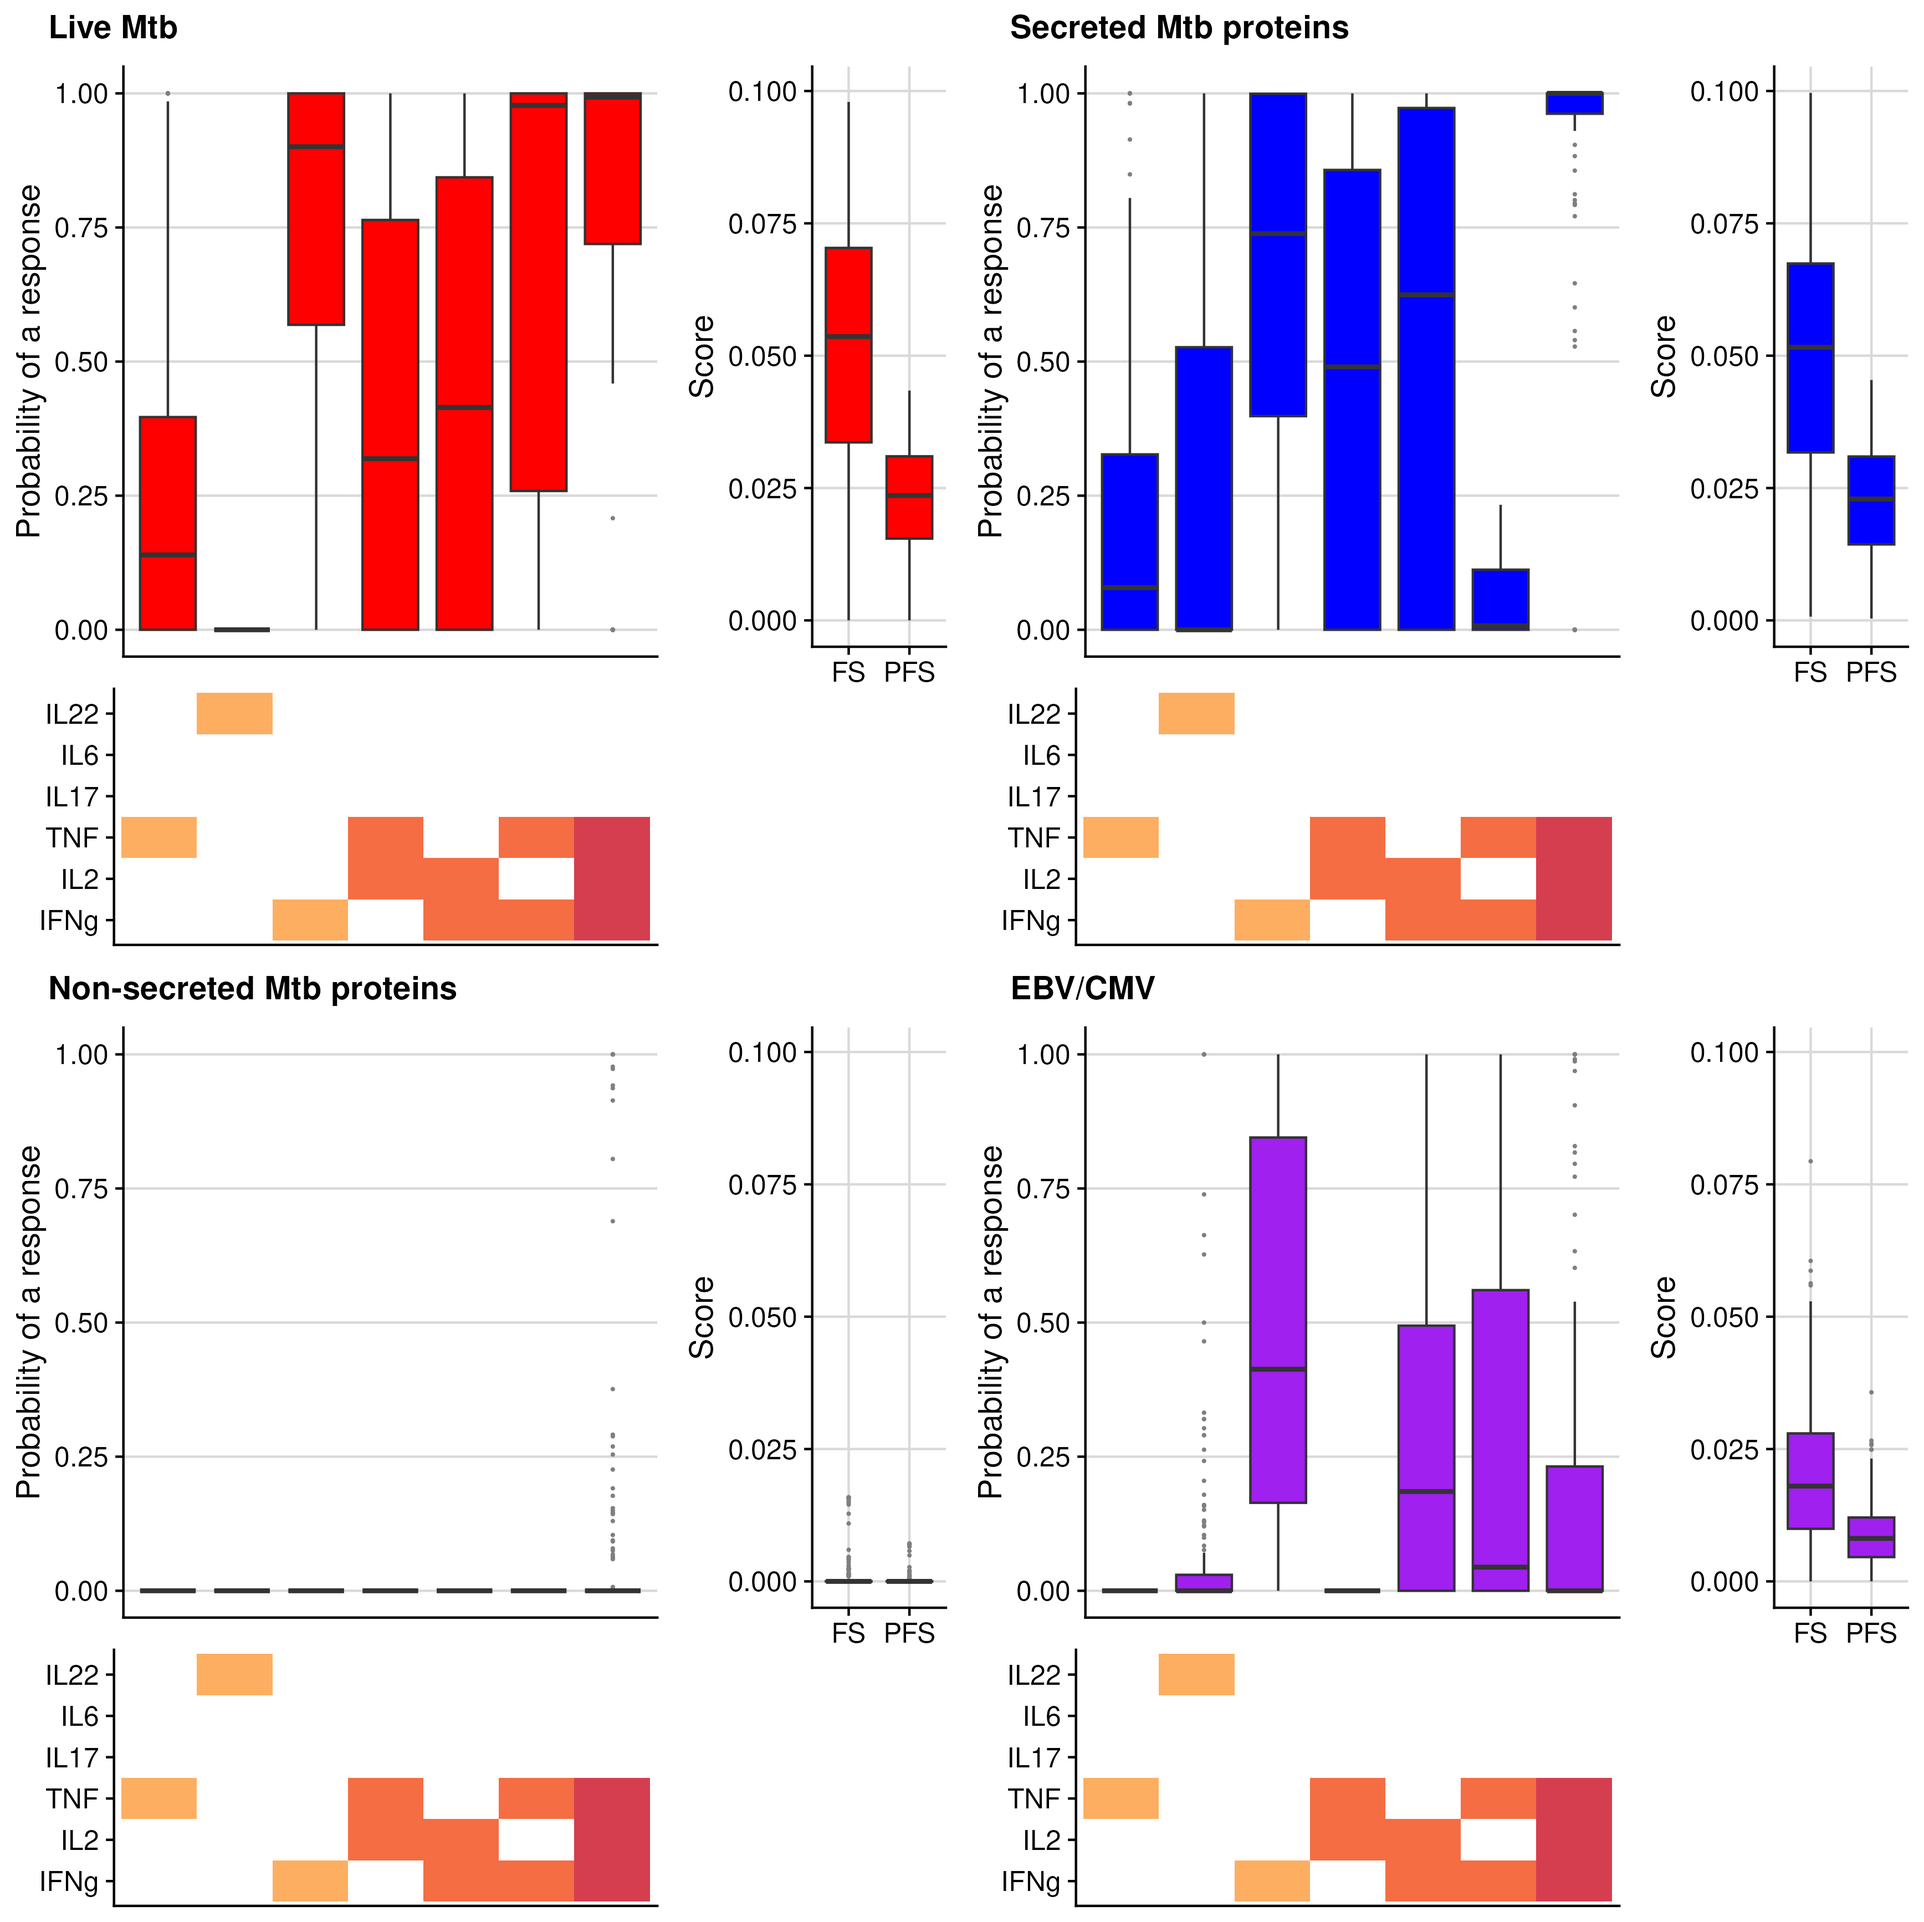
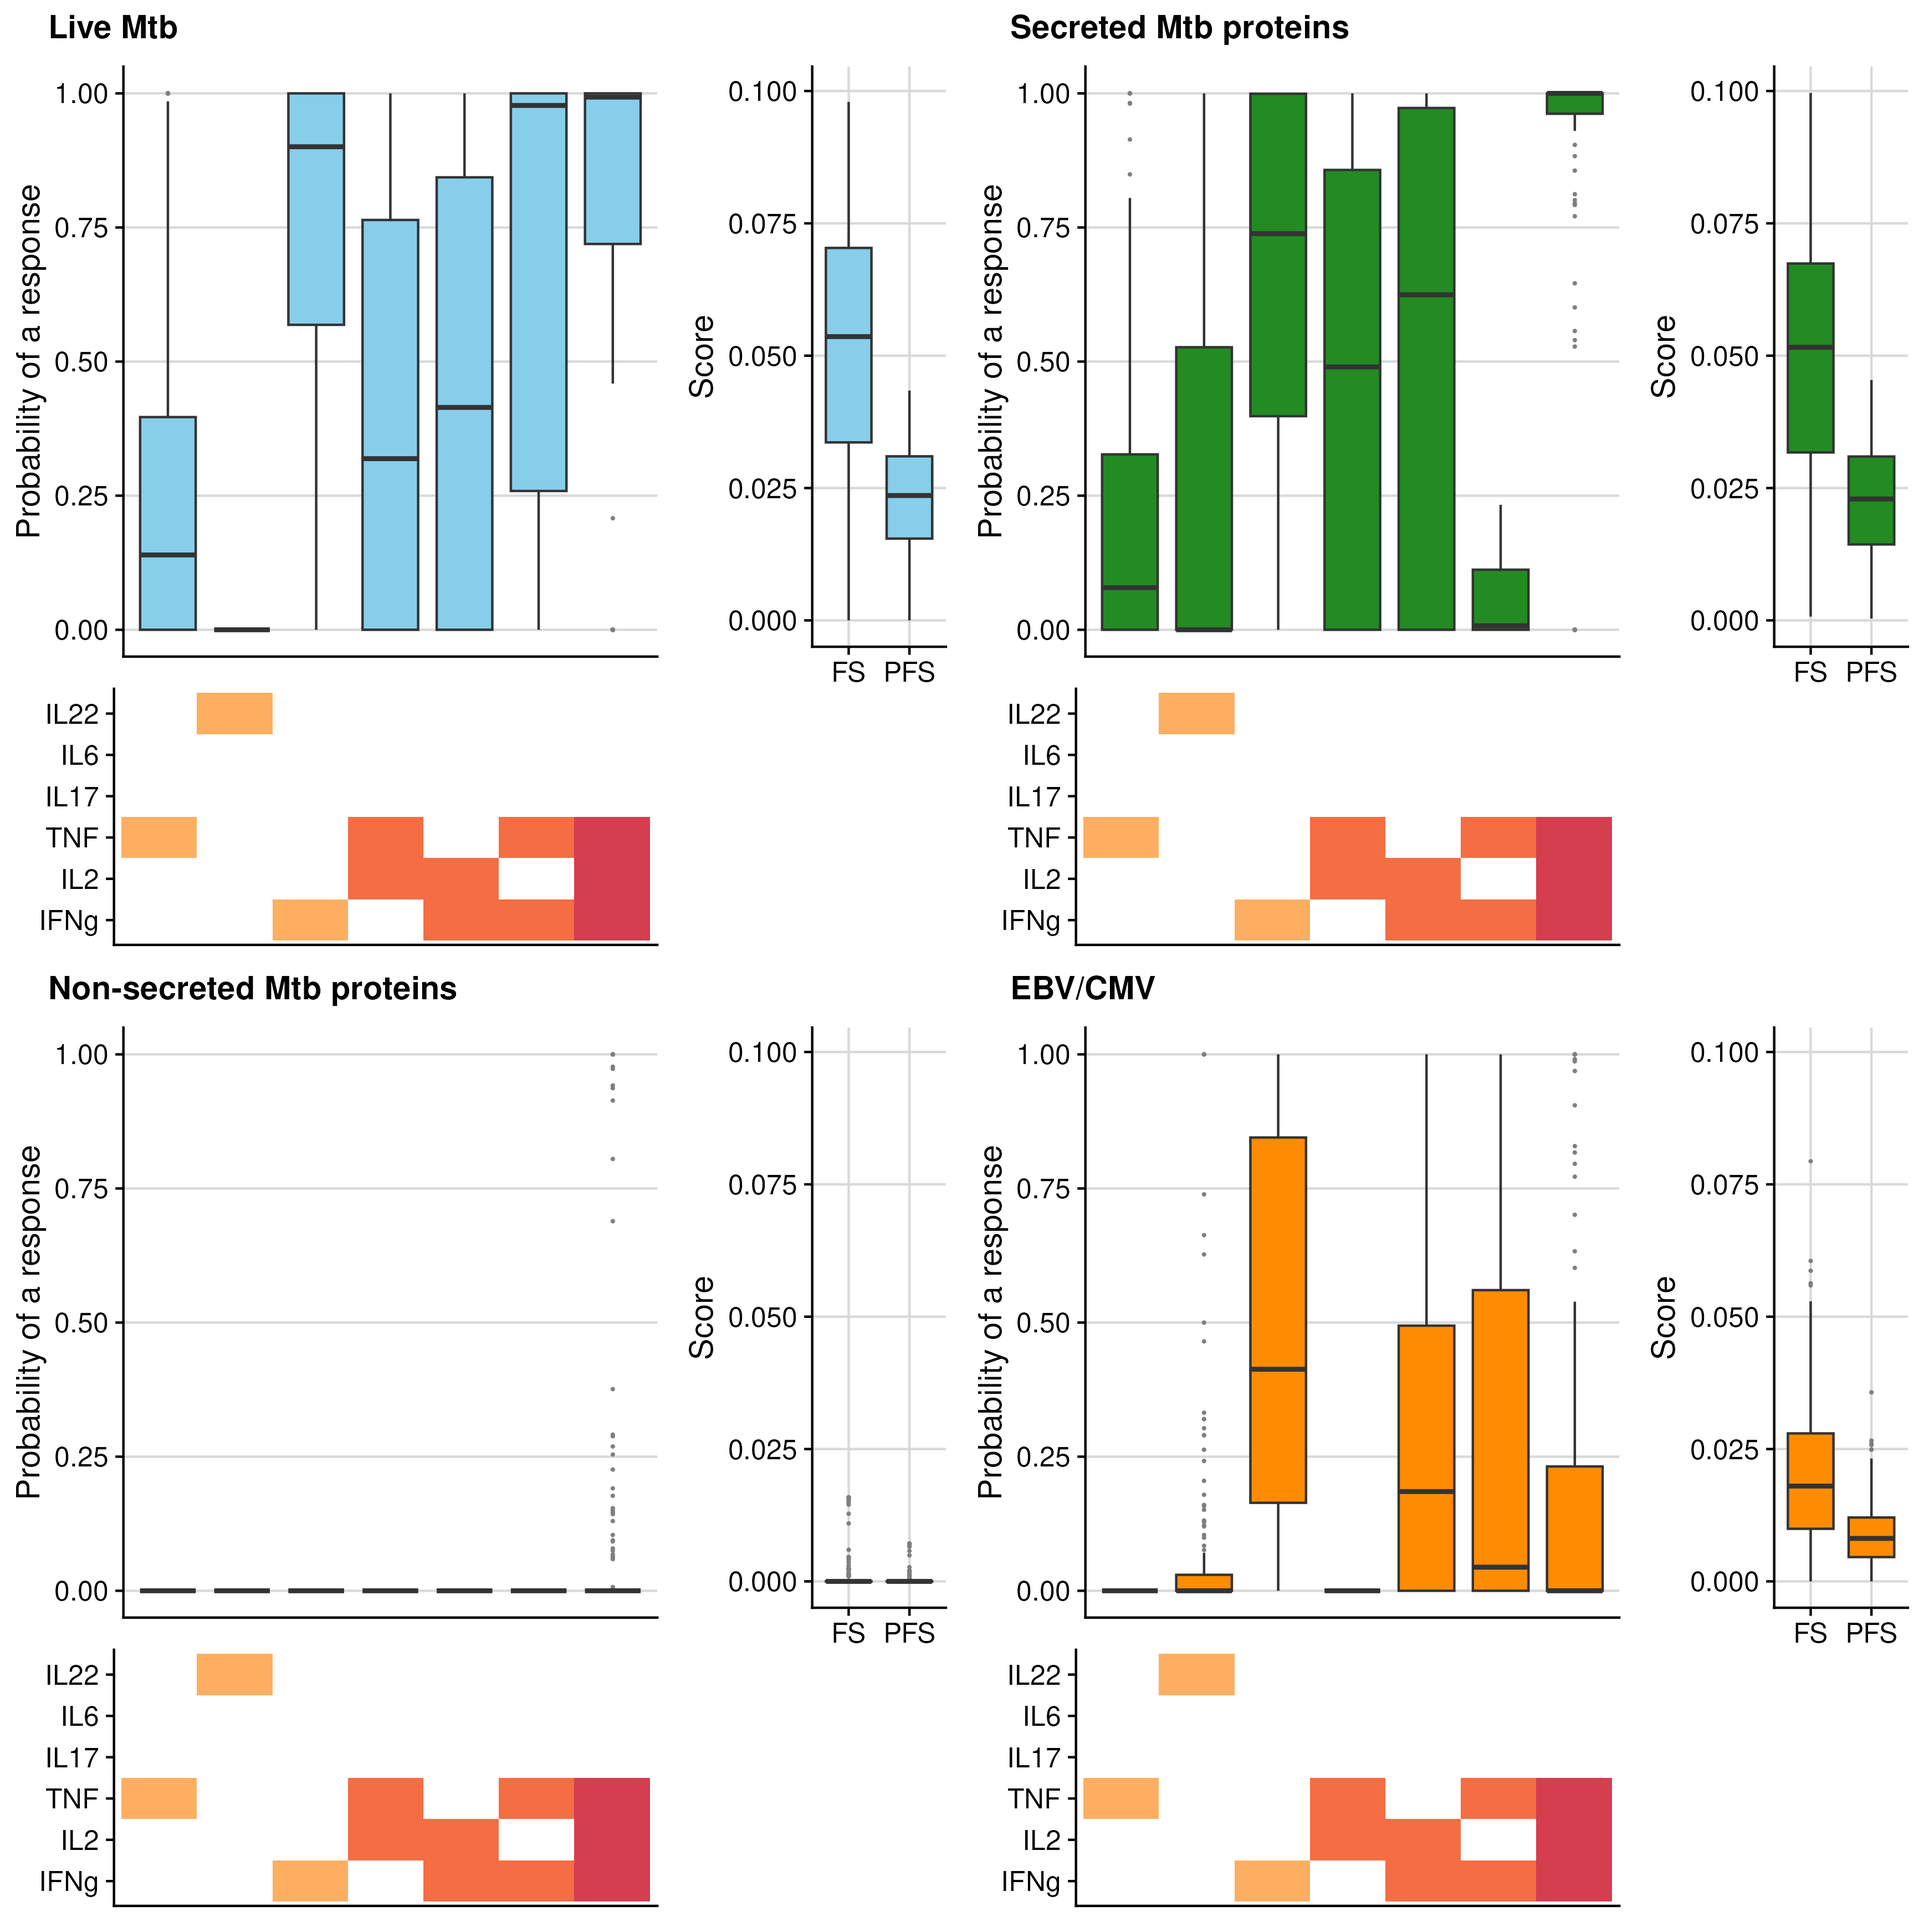
Update README again

diff --git a/README.md b/README.md
@@ -62,7 +62,7 @@ plot_compass(
   shift_plot_scores = c(-0.05, 0.05),
   shift_plot_pp_y = -0.075,
   shift_plot_heatmap_x = 0.034,
-  plot_prob_fill = c("red", "blue", "green", "purple"),
+  plot_prob_fill = c("skyblue", "forestgreen", "mediumvioletred", "darkorange"),
   tile_fill = RColorBrewer::brewer.pal(n = 11, name = "Spectral")[2:4] |> rev()
 )
 knitr::include_graphics('data-raw/compass_boxplots_grid_custom_colours.png')
